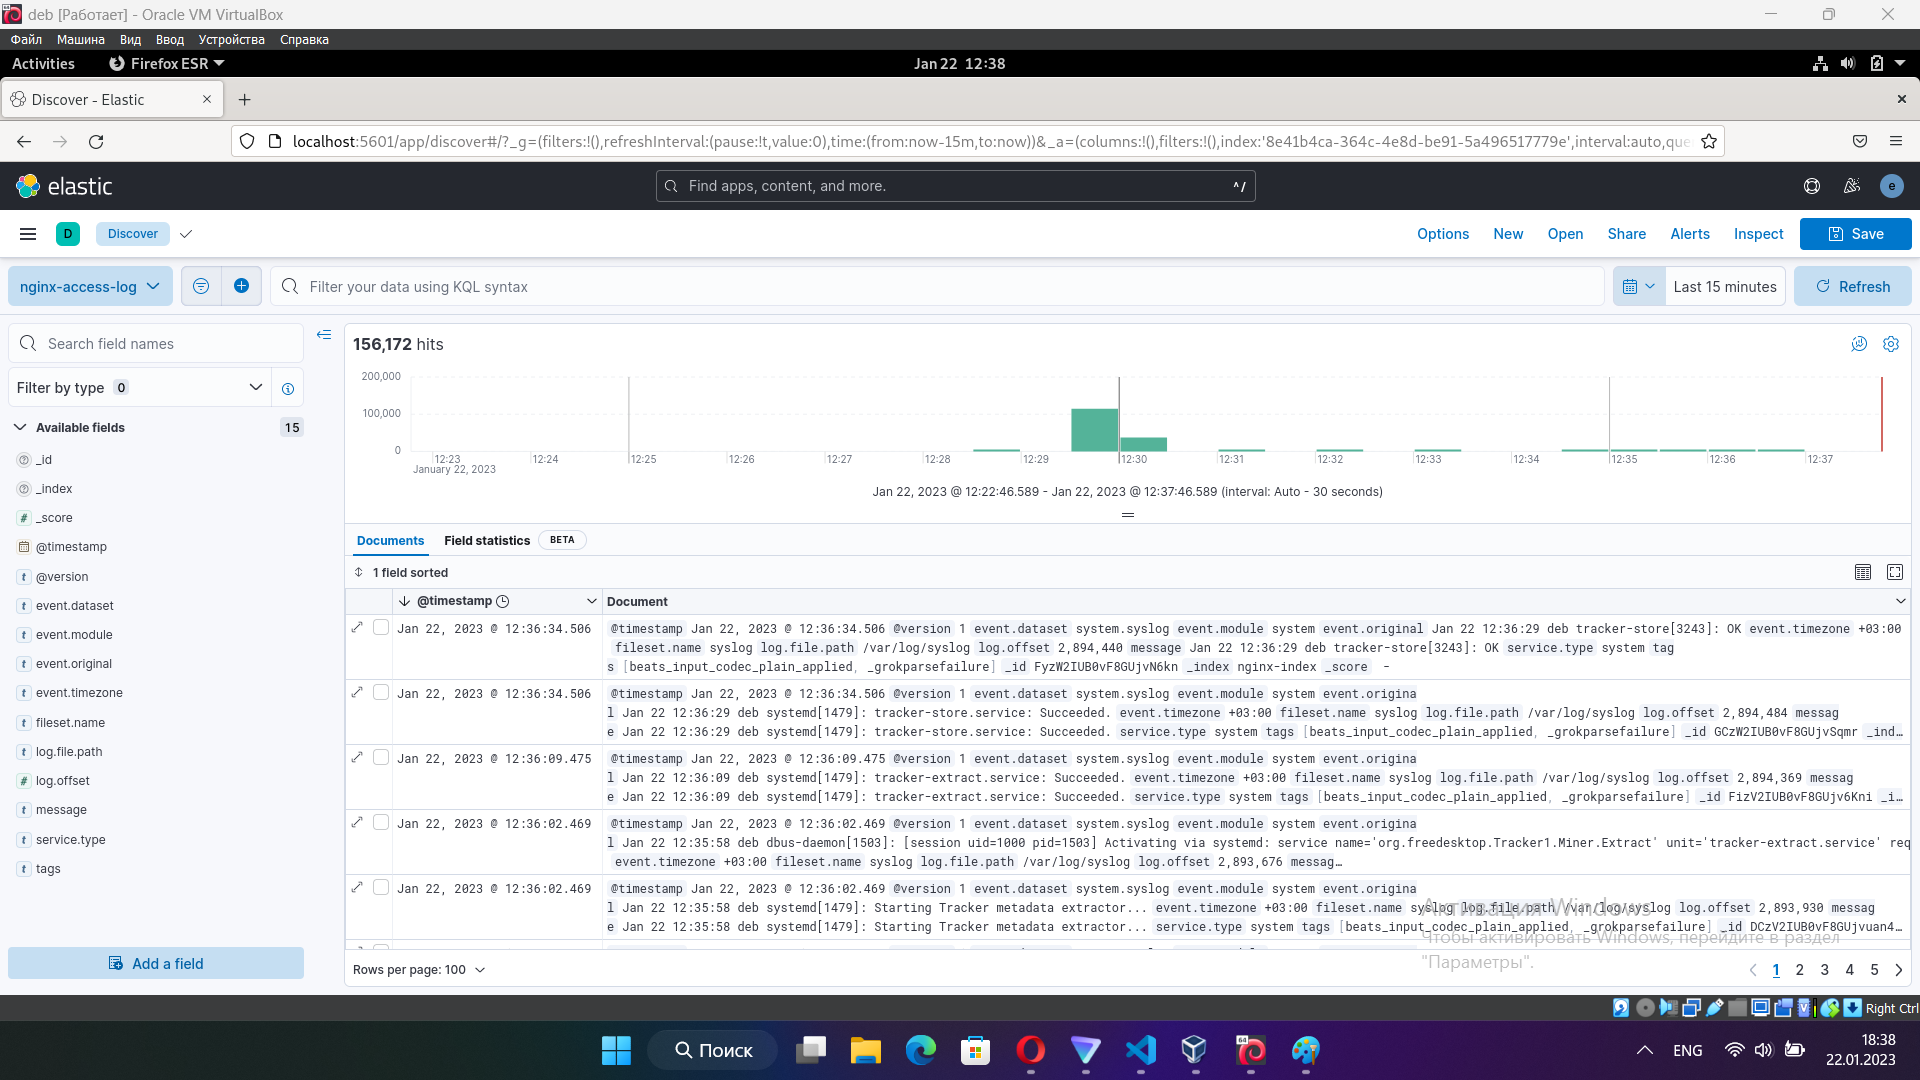
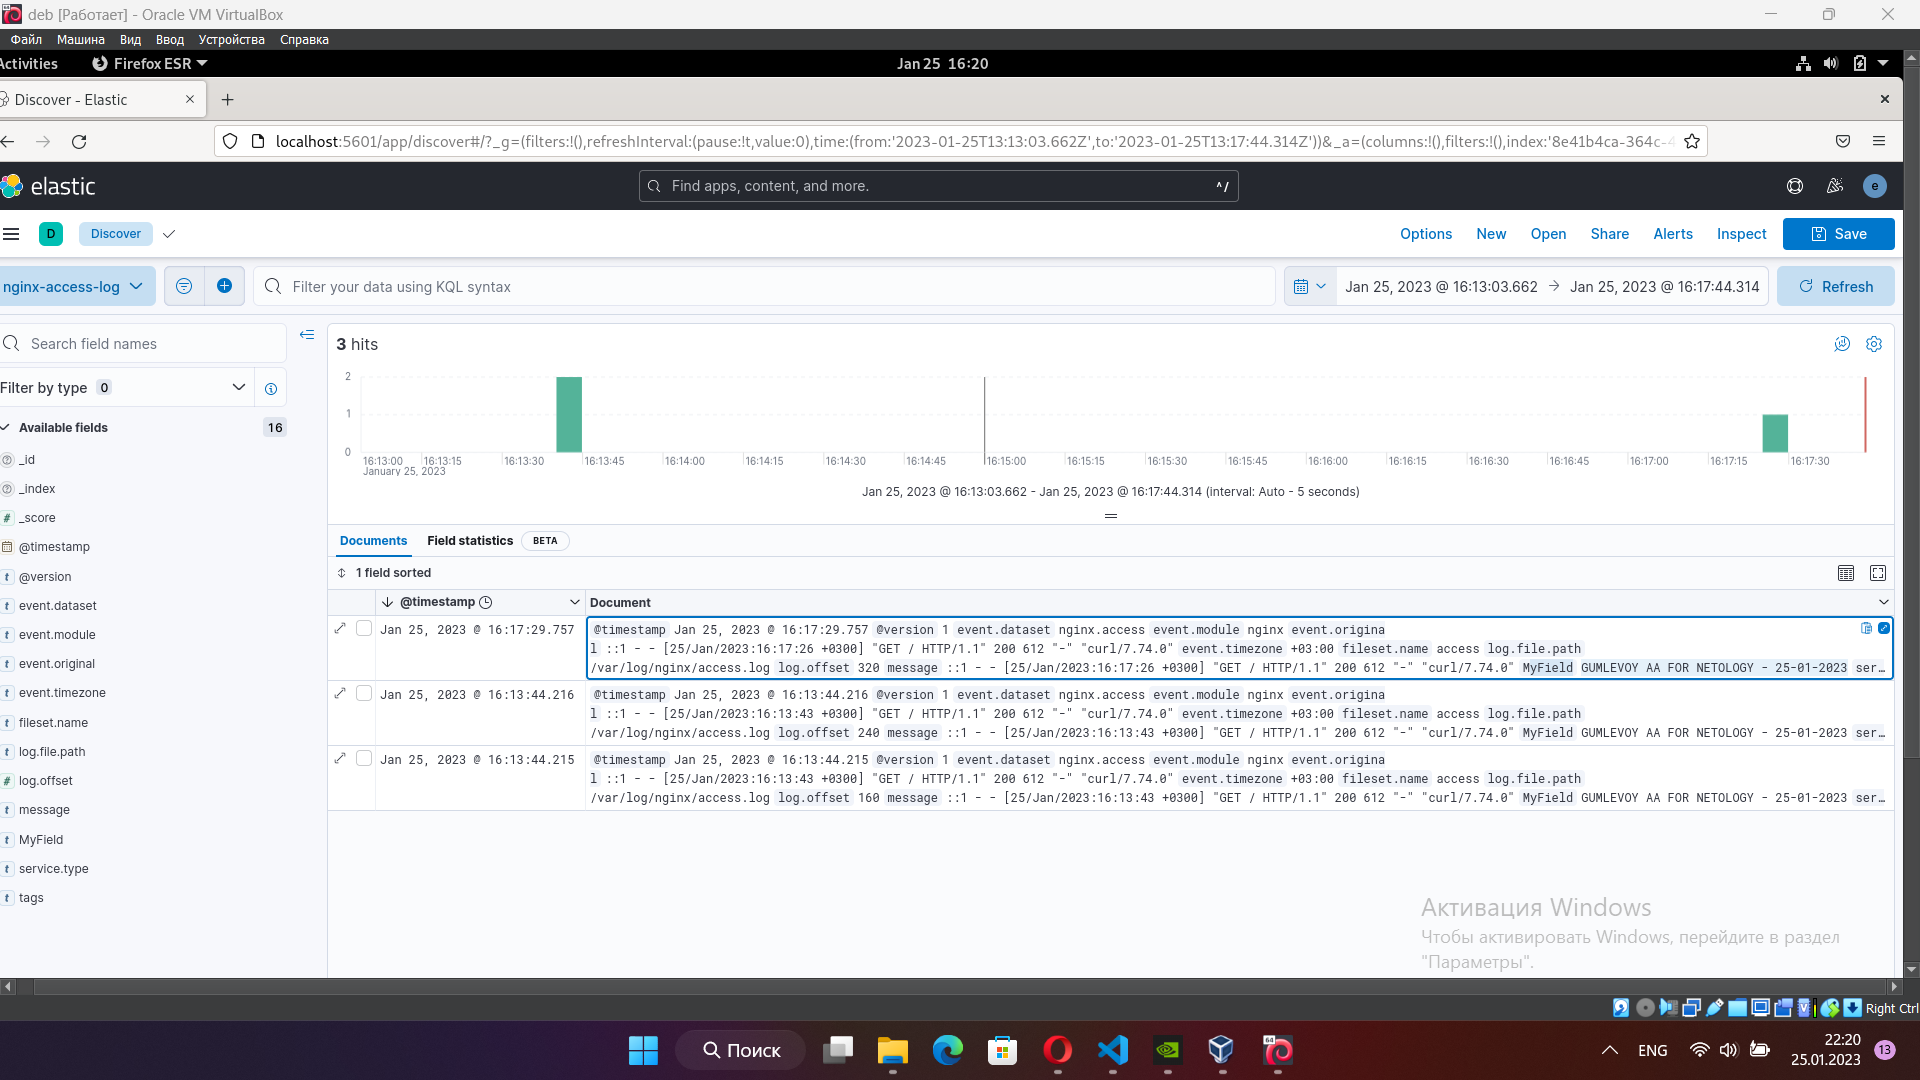
replace 4 4-1 4-2 4-3 png, new nginx logs

diff --git a/README.md b/README.md
@@ -15,9 +15,13 @@
 
 Установите и запустите Logstash и Nginx. С помощью Logstash отправьте access-лог Nginx в Elasticsearch.
 
-![Задание 3](./img/img-3.png)
+#### Скрин Logstash.
 
 ![Задание 3-1](./img/img-3-1.png)
+
+#### Скрин Kibana.
+
+![Задание 3](./img/img-3.png)
 
 <details>
   <summary>Nginx log</summary>
@@ -117,6 +121,8 @@
 
 ![Задание 4](./img/img-4.png)
 
+#### Скрин Kibana.
+
 ![Задание 4-1](./img/img-4-1.png)
 
 ![Задание 4-2](./img/img-4-2.png)
@@ -131,43 +137,11 @@
   <summary>Nginx log</summary>
   
   ```
-::1 - - [22/Jan/2023:09:27:14 +0300] "GET / HTTP/1.1" 200 612 "-" "curl/7.74.0"
-::1 - - [22/Jan/2023:09:27:15 +0300] "GET / HTTP/1.1" 200 612 "-" "curl/7.74.0"
-::1 - - [22/Jan/2023:09:27:17 +0300] "GET / HTTP/1.1" 200 612 "-" "curl/7.74.0"
-::1 - - [22/Jan/2023:09:27:18 +0300] "GET / HTTP/1.1" 200 612 "-" "curl/7.74.0"
-::1 - - [22/Jan/2023:09:27:18 +0300] "GET / HTTP/1.1" 200 612 "-" "curl/7.74.0"
-::1 - - [22/Jan/2023:09:27:19 +0300] "GET / HTTP/1.1" 200 612 "-" "curl/7.74.0"
-::1 - - [22/Jan/2023:09:27:19 +0300] "GET / HTTP/1.1" 200 612 "-" "curl/7.74.0"
-::1 - - [22/Jan/2023:09:27:20 +0300] "GET / HTTP/1.1" 200 612 "-" "curl/7.74.0"
-::1 - - [22/Jan/2023:09:27:20 +0300] "GET / HTTP/1.1" 200 612 "-" "curl/7.74.0"
-::1 - - [22/Jan/2023:09:27:21 +0300] "GET / HTTP/1.1" 200 612 "-" "curl/7.74.0"
-::1 - - [22/Jan/2023:09:27:21 +0300] "GET / HTTP/1.1" 200 612 "-" "curl/7.74.0"
-::1 - - [22/Jan/2023:09:27:22 +0300] "GET / HTTP/1.1" 200 612 "-" "curl/7.74.0"
-::1 - - [22/Jan/2023:09:27:22 +0300] "GET / HTTP/1.1" 200 612 "-" "curl/7.74.0"
-::1 - - [22/Jan/2023:09:27:23 +0300] "GET / HTTP/1.1" 200 612 "-" "curl/7.74.0"
-::1 - - [22/Jan/2023:09:27:23 +0300] "GET / HTTP/1.1" 200 612 "-" "curl/7.74.0"
-::1 - - [22/Jan/2023:09:27:23 +0300] "GET / HTTP/1.1" 200 612 "-" "curl/7.74.0"
-::1 - - [22/Jan/2023:09:27:24 +0300] "GET / HTTP/1.1" 200 612 "-" "curl/7.74.0"
-::1 - - [22/Jan/2023:09:27:24 +0300] "GET / HTTP/1.1" 200 612 "-" "curl/7.74.0"
-::1 - - [22/Jan/2023:09:27:25 +0300] "GET / HTTP/1.1" 200 612 "-" "curl/7.74.0"
-::1 - - [22/Jan/2023:09:27:25 +0300] "GET / HTTP/1.1" 200 612 "-" "curl/7.74.0"
-::1 - - [22/Jan/2023:09:27:26 +0300] "GET / HTTP/1.1" 200 612 "-" "curl/7.74.0"
-::1 - - [22/Jan/2023:09:27:26 +0300] "GET / HTTP/1.1" 200 612 "-" "curl/7.74.0"
-::1 - - [22/Jan/2023:09:27:26 +0300] "GET / HTTP/1.1" 200 612 "-" "curl/7.74.0"
-::1 - - [22/Jan/2023:09:27:28 +0300] "GET / HTTP/1.1" 200 612 "-" "curl/7.74.0"
-::1 - - [22/Jan/2023:09:27:28 +0300] "GET / HTTP/1.1" 200 612 "-" "curl/7.74.0"
-::1 - - [22/Jan/2023:09:27:28 +0300] "GET / HTTP/1.1" 200 612 "-" "curl/7.74.0"
-::1 - - [22/Jan/2023:09:27:29 +0300] "GET / HTTP/1.1" 200 612 "-" "curl/7.74.0"
-::1 - - [22/Jan/2023:09:27:29 +0300] "GET / HTTP/1.1" 200 612 "-" "curl/7.74.0"
-::1 - - [22/Jan/2023:09:27:30 +0300] "GET / HTTP/1.1" 200 612 "-" "curl/7.74.0"
-::1 - - [22/Jan/2023:09:27:32 +0300] "GET / HTTP/1.1" 200 612 "-" "curl/7.74.0"
-::1 - - [22/Jan/2023:09:27:32 +0300] "GET / HTTP/1.1" 200 612 "-" "curl/7.74.0"
-::1 - - [22/Jan/2023:10:45:20 +0300] "GET / HTTP/1.1" 200 612 "-" "curl/7.74.0"
-::1 - - [22/Jan/2023:10:45:21 +0300] "GET / HTTP/1.1" 200 612 "-" "curl/7.74.0"
-::1 - - [22/Jan/2023:10:45:22 +0300] "GET / HTTP/1.1" 200 612 "-" "curl/7.74.0"
-::1 - - [22/Jan/2023:10:45:22 +0300] "GET / HTTP/1.1" 200 612 "-" "curl/7.74.0"
-::1 - - [22/Jan/2023:10:45:23 +0300] "GET / HTTP/1.1" 200 612 "-" "curl/7.74.0"
-::1 - - [22/Jan/2023:12:31:58 +0300] "GET / HTTP/1.1" 200 612 "-" "curl/7.74.0"
-::1 - - [22/Jan/2023:12:35:00 +0300] "GET / HTTP/1.1" 200 612 "-" "curl/7.74.0"
+::1 - - [25/Jan/2023:16:03:35 +0300] "GET / HTTP/1.1" 200 612 "-" "curl/7.74.0"
+::1 - - [25/Jan/2023:16:12:36 +0300] "GET / HTTP/1.1" 200 612 "-" "curl/7.74.0"
+::1 - - [25/Jan/2023:16:13:43 +0300] "GET / HTTP/1.1" 200 612 "-" "curl/7.74.0"
+::1 - - [25/Jan/2023:16:13:43 +0300] "GET / HTTP/1.1" 200 612 "-" "curl/7.74.0"
+::1 - - [25/Jan/2023:16:17:26 +0300] "GET / HTTP/1.1" 200 612 "-" "curl/7.74.0"
+
   ```
 </details>
